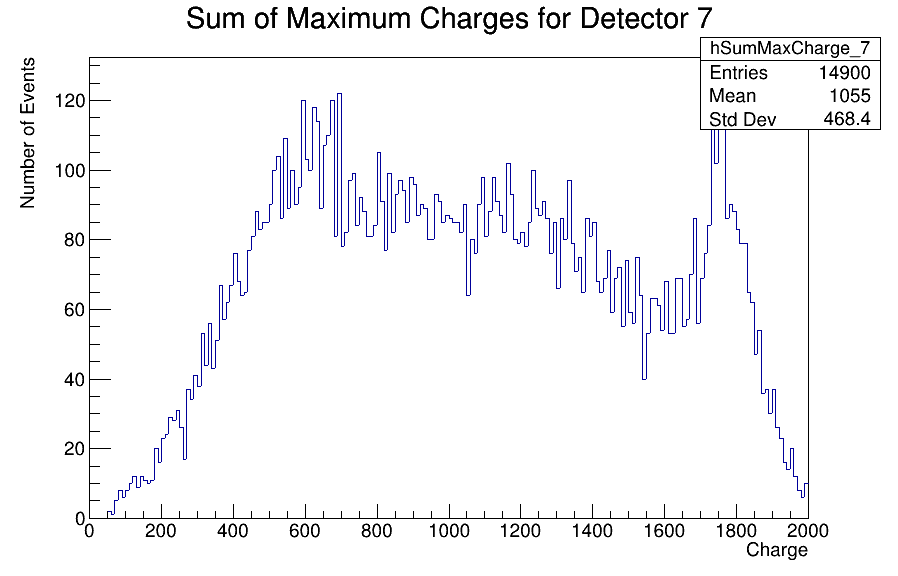
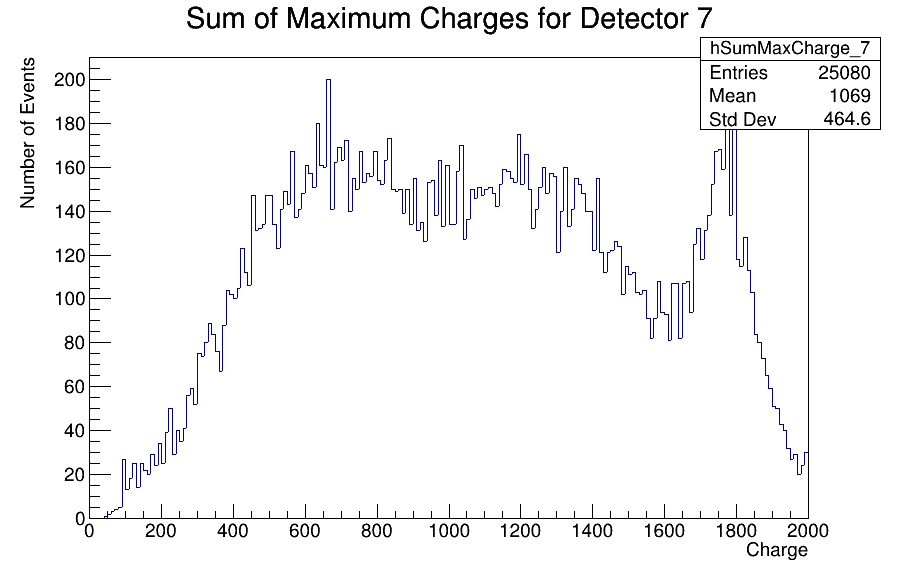
💩 Bad code for efficiencies II

diff --git a/Data Analysis/efficiency.C b/Data Analysis/efficiency.C
@@ -1,95 +1,89 @@
 #include <iostream>
+#include <vector>
+#include <unordered_map>
 #include <unordered_set>
-#include <ROOT/RDataFrame.hxx> // For modern data frame tool
-#include <cmath>              // Include for sqrt function
-#include <TH1F.h>
+#include <cmath>
+#include <ROOT/RDataFrame.hxx>
+#include <TFile.h>
+#include <TGraphErrors.h>
 #include <TCanvas.h>
-#include <string>
-#include <map>
 
-//Compute the efficiency
-std::multimap<int, std::pair<double, double>> eff(const std::string& path)
-{
-    
-	// Open the ROOT file containing the tree.
-    TFile *file = TFile::Open(path.c_str());
-    if (!file || file->IsZombie()) { // Check if the file is opened successfully.
-        std::cerr << "Error opening file or file not found." << std::endl;
-        return;
+using namespace std;
+
+// Function to compute efficiencies for a given run
+unordered_map<int, pair<double, double>> computeEfficiency(const string& filename) {
+    TFile *file = TFile::Open(filename.c_str());
+    if (!file || file->IsZombie()) {
+        cerr << "Error opening file: " << filename << endl;
+        return {};
     }
 
-	// Retrieve the tree named "raw" from the file.
     TTree *tree = (TTree*)file->Get("raw");
-    if (!tree) { // Check if the tree exists.
-        std::cerr << "Tree 'raw' not found in file." << std::endl;
-        file->Close(); // Close the file if the tree is not found.
-        return; // Exit the function.
+    if (!tree) {
+        cerr << "Tree 'raw' not found in file: " << filename << endl;
+        file->Close();
+        return {};
     }
 
-	// Create a data frame from the TTree for easier processing.
     ROOT::RDataFrame df(*tree);
-
-	// Lambda function to check if detector with id 13 is activated in the event.
-    auto hasDetector13 = [](const std::vector<unsigned int>& ids) {
-        return std::find(ids.begin(), ids.end(), 13) != ids.end();
+    auto hasDetector13 = [](const vector<unsigned int>& ids) {
+        return find(ids.begin(), ids.end(), 13) != ids.end();
     };
-
-	// Filter the data frame to include only those events where detector 13 is activated.
     auto filtered = df.Filter(hasDetector13, {"apv_id"});
 
-
-	// Map to store counts of activations for each detector.
-    std::unordered_map<int, int> counts;
-
-	// Process each entry in the filtered data frame.
-    filtered.Foreach([&](const std::vector<std::vector<short>>& ids) {
-        std::unordered_set<int> unique_ids(ids.begin(), ids.end()); // Use a set to avoid counting duplicates.
+    unordered_map<int, int> counts;
+    filtered.Foreach([&](const vector<unsigned int>& ids) {
+        unordered_set<int> unique_ids(ids.begin(), ids.end());
         for (int id : {8,9,10,11,12,13}) {
-            if (unique_ids.count(id)) {
-                counts[id]++; // Increment count for each detector found.
-            }
+            if (unique_ids.count(id)) counts[id]++;
         }
     }, {"apv_id"});
 
-	// Get the number of entries where detector 13 was hit to calculate efficiencies.
-    double n = filtered.Count().GetValue();
+    double N = filtered.Count().GetValue();
+    unordered_map<int, pair<double, double>> efficiencies;
 
-    std::multimap<int, pair<double, double>> effmap;
-
-
-	// Output the efficiency results and their errors for each detector.
     for (int id : {8,9,10,11,12,13}) {
-        int n = counts[id];
-        double efficiency = N > 0 ? (n / N) * 100 : 0; // Calculate efficiency as a percentage.
-        double error = N > 0 ? (1 / sqrt(N)) * sqrt(n / N * (1 - n / N)) * 100 : 0; // Calculate error as a percentage. 
-        effmap.insert{std::make_pair(id, std::make_pair(efficiency, error))};
-        
-        // Print counts as integers without decimal places
-        //std::cout << "Detector " << id << "\t" << "Counts " << n << "\t"; // Display count as an integer
-
-        // Set fixed point and two decimal places for efficiencies and errors
-        //std::cout << std::fixed << std::setprecision(2) 
-        //        << "Err Counts " << sqrt(n) << "\t" << "Efficiencies " << efficiency << "%\t" << "Error Eff " << error << "%" << std::endl;
+        double n = counts[id];
+        double efficiency = N > 0 ? (n / N) * 100 : 0;
+        double error = N > 0 ? (1 / sqrt(N)) * sqrt(n / N * (1 - n / N)) * 100 : 0;
+        efficiencies[id] = make_pair(efficiency, error);
     }
 
-    return effmap;
+    file->Close();
+    return efficiencies;
 }
 
-// Main function to compute the efficiency of detectors, particularly focusing on detector 13.
-void efficiency()
-{
-    vector<string> rootfiles = {"6578","6583","6586","6592","6596","6599"};
+// Main function to process multiple runs
+int efficiency() {
+    vector<string> files = {"Data/run6578.root", "Data/run6583.root", "Data/run6586.root", "Data/run6592.root", "Data/run6596.root", "Data/run6599.root"};
+    vector<int> hvs = {500, 520, 520, 540, 560, 580}; // HV for detectors 8-12, detector 13 always at 600
     
-    partial = eff("Data/run6578.root");
+    // Store efficiency data
+    unordered_map<int, vector<pair<double, double>>> data; // ID -> List of (efficiency, error)
+    vector<double> hv_levels = {500, 520, 520, 540, 560, 580};  // HV levels without 600 since it's constant for ID 13
 
-    //for(const auto& key : partial){
+    for (size_t i = 0; i < files.size(); ++i) {
+        auto eff = computeEfficiency(files[i]);
+        for (int id : {8,9,10,11,12}) {
+            data[id].push_back(eff[id]);
+        }
+        // Handle detector 13 separately if needed
+    }
 
-    //    std::cout << "Detector: " << key.first << ", Efficiency: " << key.second << endl; 
-    //}
+    // Create graphs for each detector
+    for (int id : {8,9,10,11,12}) {
+        vector<double> effs, errs;
+        for (auto& e : data[id]) {
+            effs.push_back(e.first);
+            errs.push_back(e.second);
+        }
 
-    // for (auto file: rootfiles)
-    // {
-    //     eff(file);
-    // }
-    
+        TGraphErrors *graph = new TGraphErrors(hv_levels.size(), hv_levels.data(), effs.data(), nullptr, errs.data());
+        graph->SetTitle(Form("Efficiency vs HV for Detector %d;HV;Efficiency (%)", id));
+        TCanvas *c = new TCanvas(Form("c%d", id), Form("Canvas for Detector %d", id), 600, 400);
+        graph->Draw("AP");
+        c->SaveAs(Form("Efficiency_HV_Detector%d.png", id));
+    }
+
+    return 0;
 }

diff --git a/Data Analysis/histograms.C b/Data Analysis/histograms.C
@@ -13,7 +13,7 @@ using namespace std;
 void histograms()
 {
 	// Open the ROOT file containing the tree.
-    TFile *file = TFile::Open("Data/run6578.root");
+    TFile *file = TFile::Open("Data/run6599.root");
     if (!file || file->IsZombie()) { // Check if the file is opened successfully.
         cerr << "Error opening file or file not found." << endl;
         return;
@@ -54,7 +54,7 @@ void histograms()
 
         histogramsTQ[id] = new TH1F(Form("hSumMaxCharge_%s", name.c_str()), 
                                     Form("Sum of Maximum Charges for Detector %s;Charge;Number of Events", name.c_str()), 
-                                    200, 0, 2000);
+                                    200, 0, 4000);
     }
 
 
@@ -123,26 +123,29 @@ void histograms()
     }, {"apv_id", "apv_q"});
 
     
+    TCanvas *canvas0 = new TCanvas("", "", 900, 600);
+    //canvas0->SetLogy();
     
     // Draw and save each histogram
     for (int id : ids) {
-        string name = idToName[id];
+        //string name = idToName[id];
         
-        TCanvas *canvas0 = new TCanvas(Form("canvas_%s", name.c_str()), Form("Hits in Detector in plane %s", name.c_str()), 900, 600);
-        canvas0->SetLogy();
+        //TCanvas *canvas0 = new TCanvas(Form("canvas_%s", name.c_str()), Form("Hits in Detector in plane %s", name.c_str()), 900, 600);
+        //canvas0->SetLogy();
         
         histogramsHits[id]->Draw();
-        canvas0->SaveAs(Form("Figures/hits_detector_plane_%s.png", name.c_str()));
-        Int_t bin_under = histogramsHits[id]->GetBinContent(0); 
-        Int_t bin_over = histogramsHits[id]->GetBinContent(11);
-        cout << bin_under << "\t" << bin_over << endl;
+        // //canvas0->SaveAs(Form("Figures/hits_detector_plane_%s.png", name.c_str()));
+        // Int_t bin_under = histogramsHits[id]->GetBinContent(0); 
+        // Int_t bin_over = histogramsHits[id]->GetBinContent(11);
+        // cout << bin_under << "\t" << bin_over << endl;
 
-        TCanvas *canvas1 = new TCanvas(Form("canvas_%s", name.c_str()), Form("Histogram of Maximum Charge for Detector in plane %s", name.c_str()), 900, 600);
-        histogramsQ[id]->Draw();
-        canvas1->SaveAs(Form("Figures/maxQ_detector_plane_%s.png", name.c_str()));
+        // // TCanvas *canvas1 = new TCanvas(Form("canvas_%s", name.c_str()), Form("Histogram of Maximum Charge for Detector in plane %s", name.c_str()), 900, 600);
+        //histogramsQ[id]->Draw("same");
+        // // canvas1->SaveAs(Form("Figures/maxQ_detector_plane_%s.png", name.c_str()));
 
-        TCanvas *canvas2 = new TCanvas(Form("canvas_%s", name.c_str()), Form("Histogram of Sum of Maximum Charges for Detector in plane %s", name.c_str()), 900, 600);
-        histogramsTQ[id]->Draw();
-        canvas2->SaveAs(Form("Figures/TotalQ_detector_plane_%s.png", name.c_str()));
+        // // TCanvas *canvas2 = new TCanvas(Form("canvas_%s", name.c_str()), Form("Histogram of Sum of Maximum Charges for Detector in plane %s", name.c_str()), 900, 600);
+        // histogramsTQ[id]->Draw("same");
+        // // canvas2->SaveAs(Form("Figures/TotalQ_detector_plane_%s.png", name.c_str()));
     }
+    canvas0->Draw();
 }
